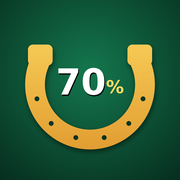
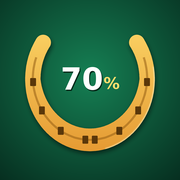
v57: vrai fer à cheval sur l'icône
Claude-Session: https://claude.ai/code/session_01Cii3DT1a8Qsv4EQF3s78wy

diff --git a/docs/turf/index.html b/docs/turf/index.html
@@ -6,7 +6,7 @@
 <title>Turf Analyste</title>
 <meta name="theme-color" content="#0b0f14" media="(prefers-color-scheme: dark)"><meta name="theme-color" content="#f4f6f9" media="(prefers-color-scheme: light)">
 <link rel="manifest" href="manifest.webmanifest">
-<link rel="apple-touch-icon" href="apple-touch-icon.png?v=3"><link rel="icon" href="icon-192.png?v=3">
+<link rel="apple-touch-icon" href="apple-touch-icon.png?v=4"><link rel="icon" href="icon-192.png?v=4">
 <meta name="apple-mobile-web-app-capable" content="yes">
 <meta name="apple-mobile-web-app-status-bar-style" content="black-translucent">
 <link rel="preconnect" href="https://fonts.googleapis.com"><link rel="preconnect" href="https://fonts.gstatic.com" crossorigin>
@@ -119,7 +119,7 @@ a{color:var(--accent)}
 <body>
 <header>
   <div class="top">
-    <h1>Turf <span>Analyste</span> <small style="font-size:11px;font-weight:700">v56</small></h1>
+    <h1>Turf <span>Analyste</span> <small style="font-size:11px;font-weight:700">v57</small></h1>
     <div class="datebar"><button id="bell" aria-label="Alertes"><svg viewBox="0 0 24 24" fill="none" stroke="currentColor" stroke-width="2" stroke-linecap="round" stroke-linejoin="round"><path d="M6 8a6 6 0 0 1 12 0c0 7 3 9 3 9H3s3-2 3-9"/><path d="M10.3 21a1.94 1.94 0 0 0 3.4 0"/></svg><b id="bellN"></b></button><button id="prev" aria-label="Jour précédent">‹</button><button id="today">Auj.</button><button id="next" aria-label="Jour suivant">›</button></div>
   </div>
   <div class="status"><span id="st">Prêt</span><span id="upd"></span></div>

diff --git a/docs/turf/sw.js b/docs/turf/sw.js
@@ -1,4 +1,4 @@
-const C='turf-gh-v56';
+const C='turf-gh-v57';
 self.addEventListener('install',e=>{e.waitUntil(caches.open(C).then(c=>c.addAll(['./','index.html','manifest.webmanifest','icon-192.png','icon-512.png'])));self.skipWaiting()});
 self.addEventListener('activate',e=>{e.waitUntil(caches.keys().then(k=>Promise.all(k.filter(x=>x.startsWith('turf-')&&x!==C).map(x=>caches.delete(x)))));self.clients.claim()});
 self.addEventListener('fetch',e=>{const u=new URL(e.request.url);if(u.origin!==location.origin||!u.pathname.includes('/turf/'))return;
